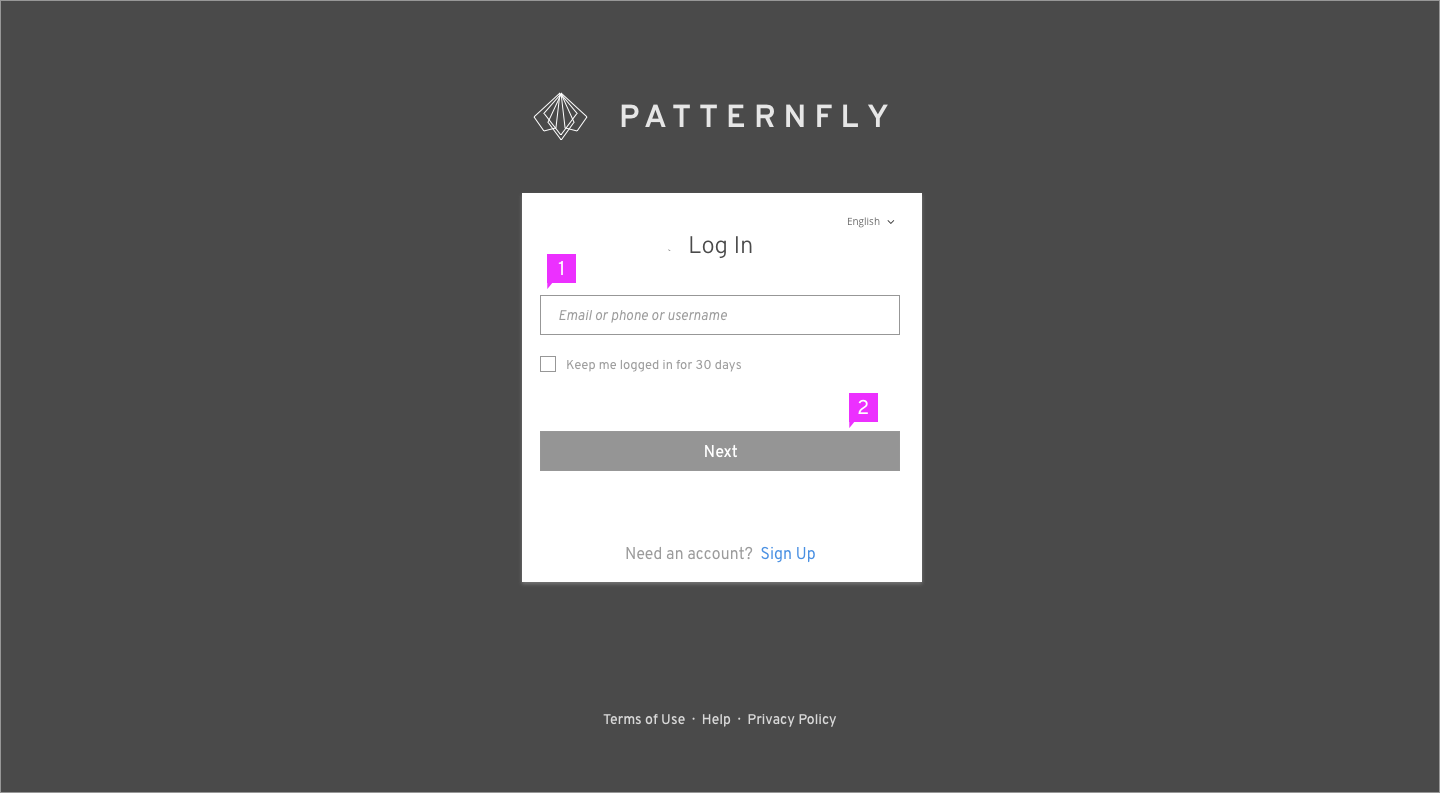
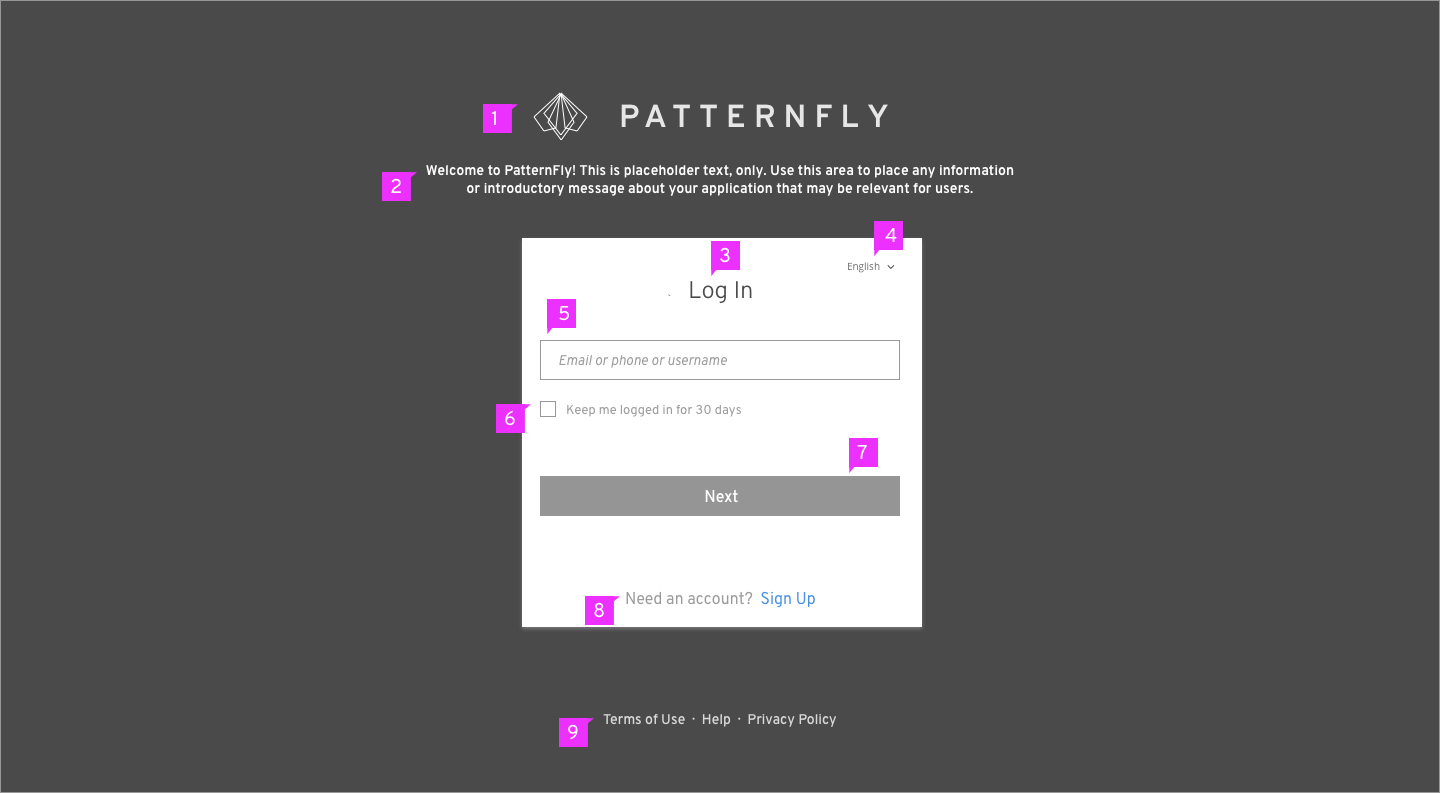
Add annotations of basic elements

diff --git a/pattern-library/application-framework/multi-factor-login/design/design.md b/pattern-library/application-framework/multi-factor-login/design/design.md
@@ -2,14 +2,22 @@
 
 ## Identity First
 ![Image of identity first](img/login-page-2.png)
-1. **Username Field**: Include only a username field as the password will be requested in a separate step.
-2. **Next Button**: Replace "Log In" with "Next" since this will be a two step process. When the user clicks the "Next" button, the software will validate that this user exists and they will then be prompted to enter a password. If this user does not exist, an error message should be returned.
+1. **Logotype**: The product logo is placed at the top.
+2. **Description** (optional): Description of the website can be placed here.
+3. **Title**: The title is located at the top of the login card.
+4. **Language Selector** (optional): The language selector is located in the top right of the login card.
+5. **Username Field**: Include only a username field as the password will be requested in a separate step.
+6. **Checkbox** (optional): Checkbox is located under the Required fields. It can be labeled varied texts depending on the needs of different applications. Checkbox labels should be capitalized according to [Terminology and Wording Style Guide](http://www.patternfly.org/styles/terminology-and-wording/).
+7. **Next Button**: Replace "Log In" with "Next" since this will be a two step process. When the user clicks the "Next" button, the software will validate that this user exists and they will then be prompted to enter a password. If this user does not exist, an error message should be returned.
+8. **Sign up** (optional): The page will jump to the sign up flow after clicking the “Sign up” link.
+9. **Links** (optional): You may add any additional links to pages where the user can get more information or help.
 
 ![Image of identity first](img/login-page-3.png)
 1. **Validated Username**: After successful verification, the username should change to read-only mode in this page.
 2. **Return Link**: Users can change username by clicking the "Not you?" link on the far right. After clicking the link, the card will return to the text field mode as the previous page.
 3. **Password Field**: If needed, users should input password to log in.
-4. **Login Button**: If there are more steps for authentication, the button should be called “Next” instead of “Log In”.
+4. **Help Link** (optional): It is a link for users to recover their password.
+5. **Login Button**: If there are more steps for authentication, the button should be called “Next” instead of “Log In”.
 
 ## Other Login Methods
 ![Image of other login methods](img/login-page-5.png)
